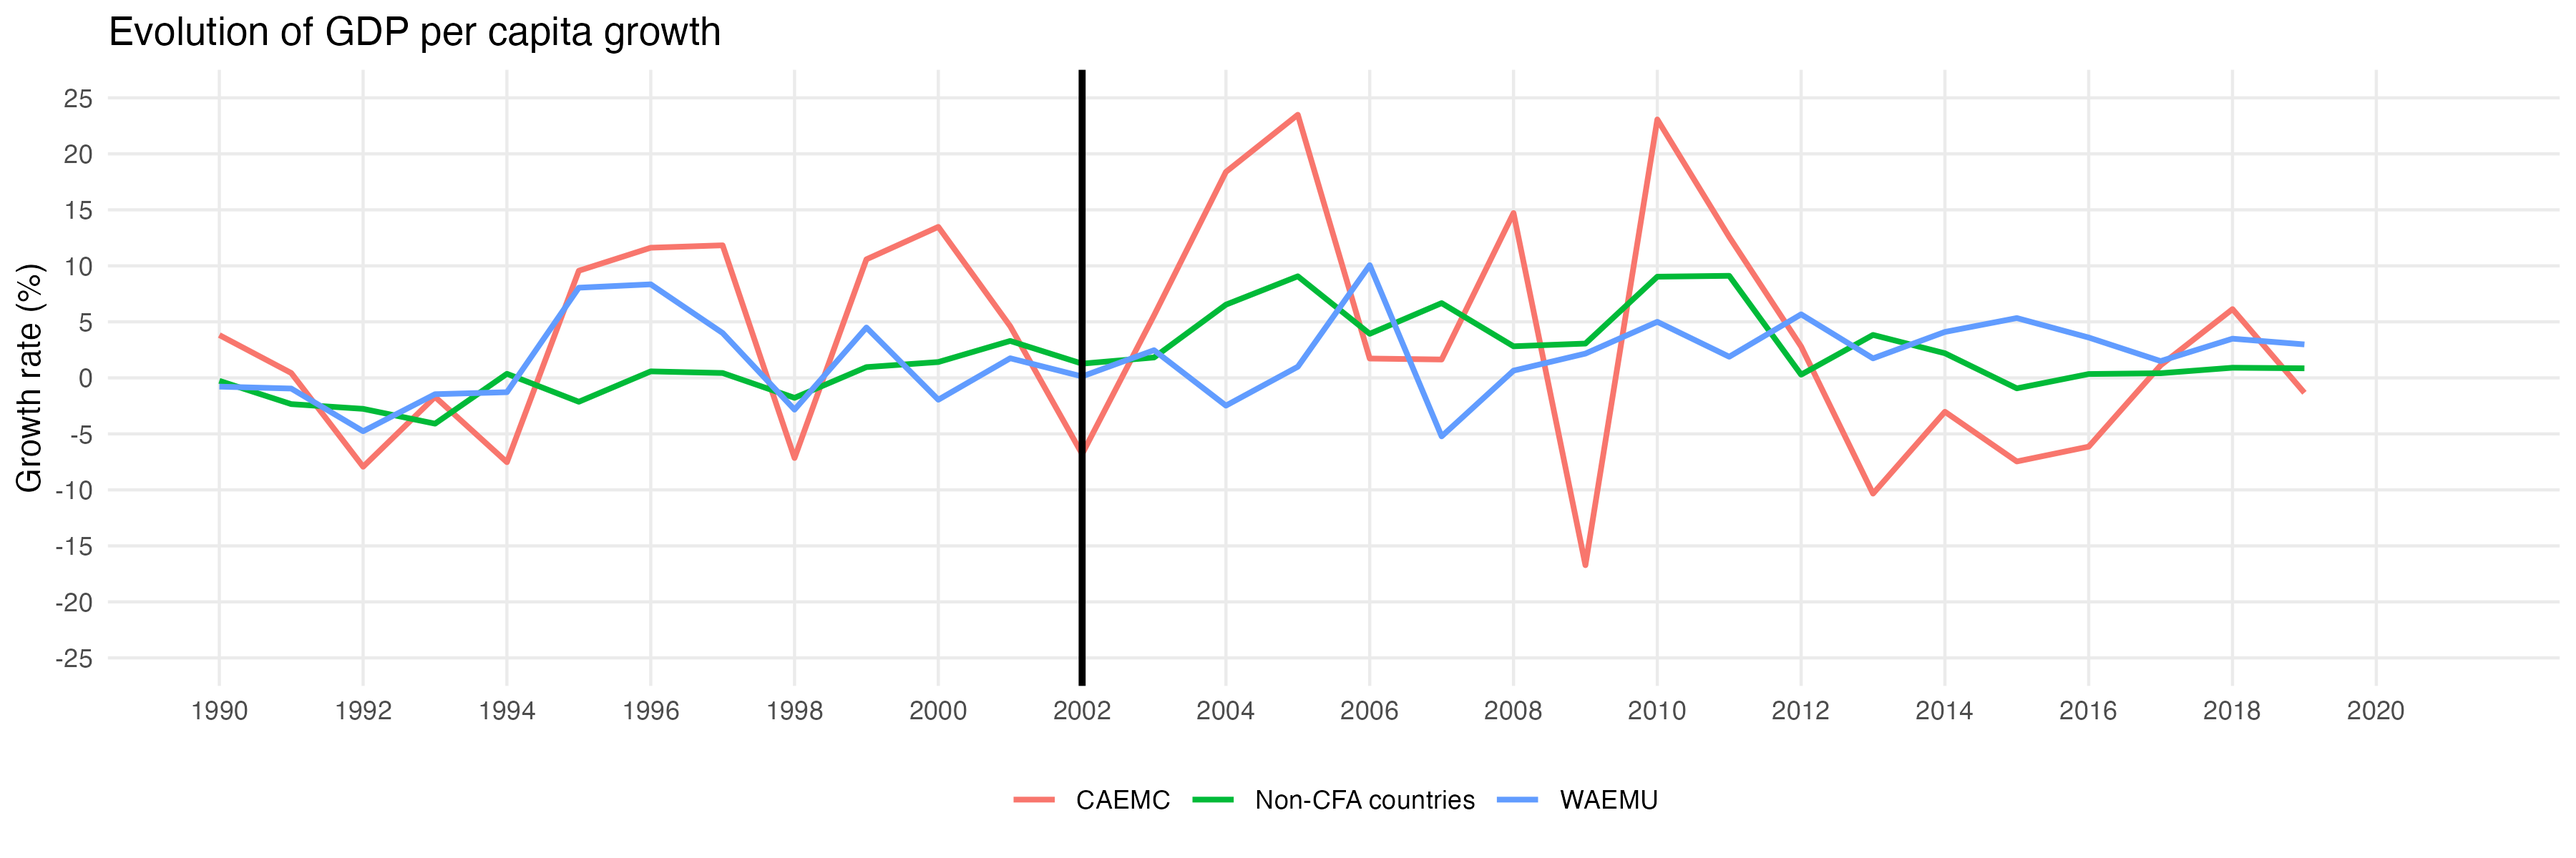
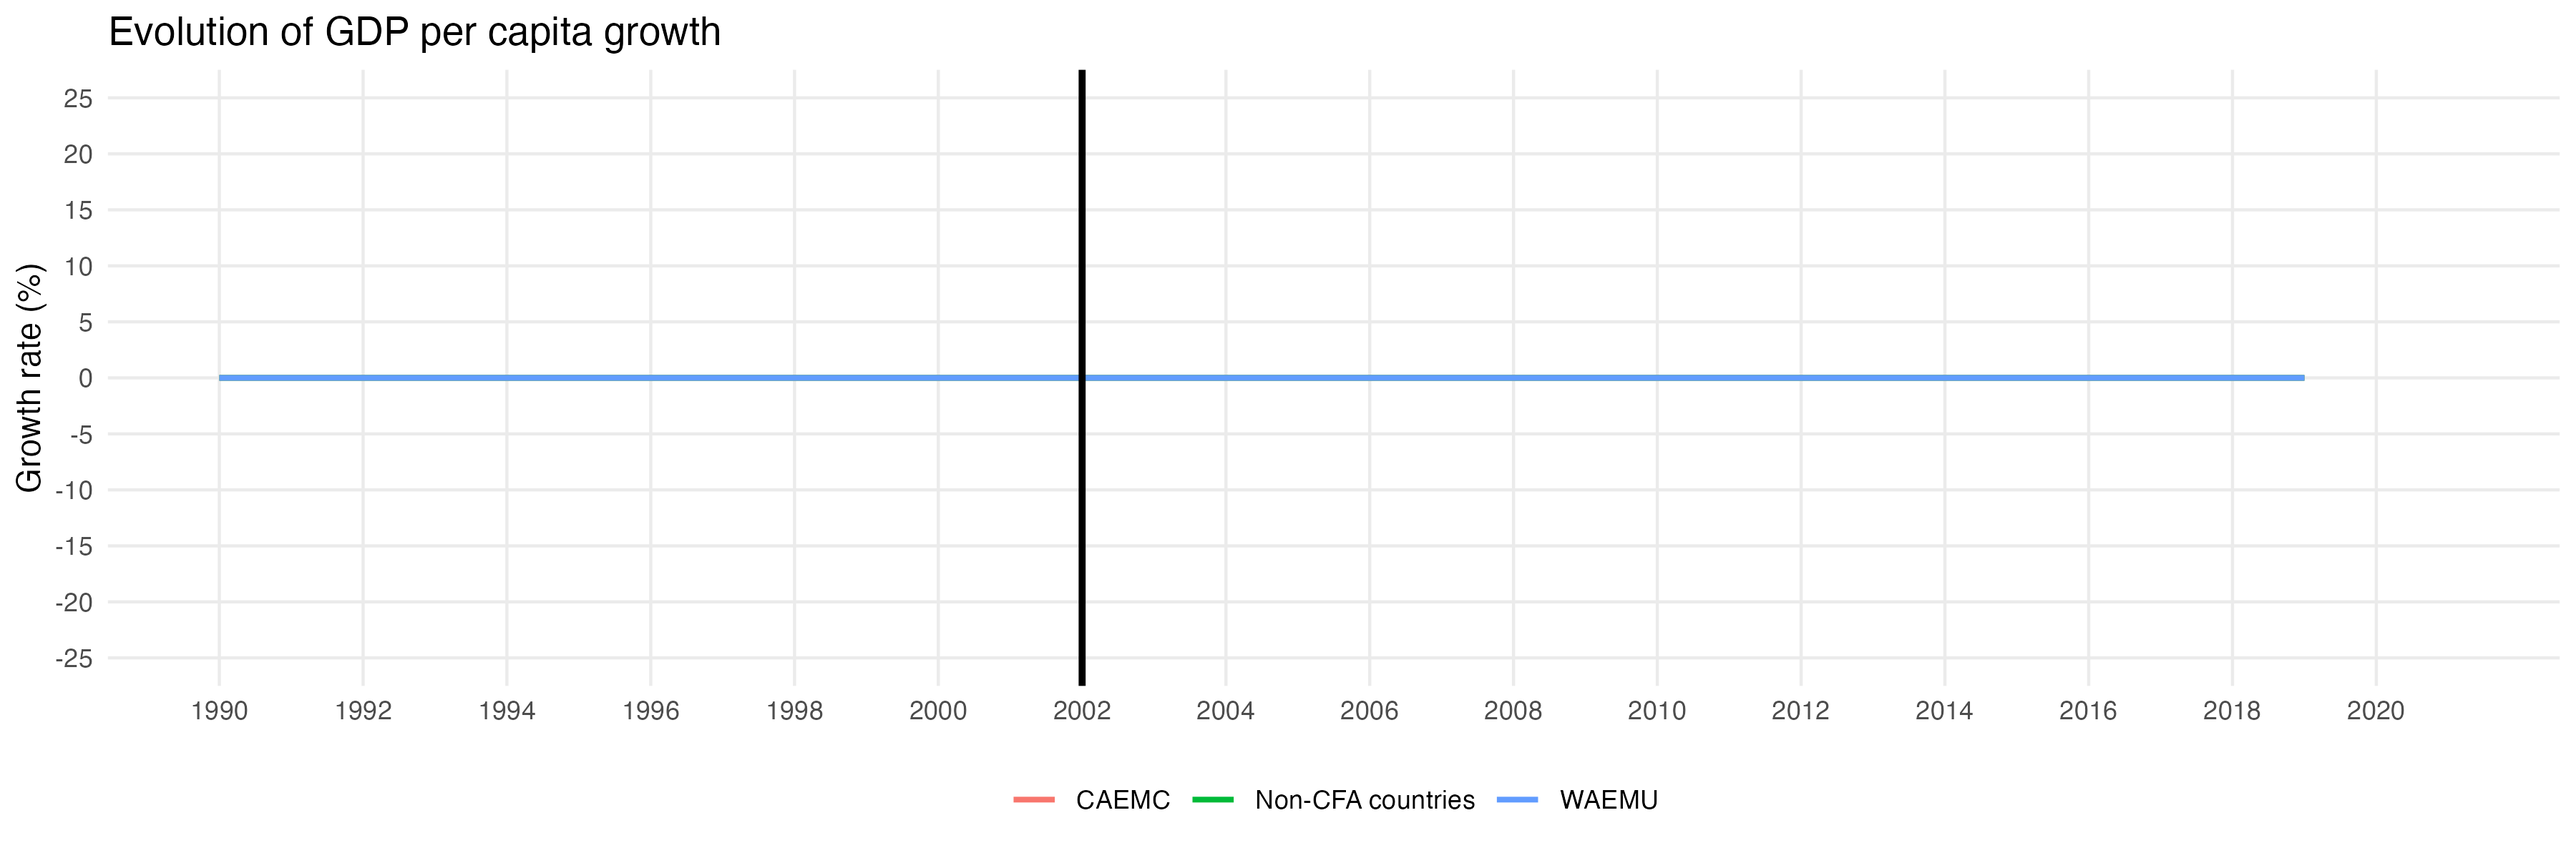
Add comments to data download file

diff --git a/output/tables/appendix4_non_cfa_gdp_growth.tex b/output/tables/appendix4_non_cfa_gdp_growth.tex
@@ -6,28 +6,28 @@
 \toprule
 country & gdp\_pc 1990-2001 & gdp\_pc 2002-2021 & gdp\_pc\_wdi 1990-2001 & gdp\_pc\_wdi 2002-2021\\
 \midrule
-Angola & -1.080 & 7.569 & -1.293 & 1.432\\
-Burundi & -2.298 & 0.394 & -3.034 & 0.049\\
-Congo, Dem. Rep. & -9.217 & 3.809 & -8.169 & 2.108\\
-Ethiopia & -0.422 & 8.390 & 0.003 & 5.781\\
-Gambia, The & 0.116 & -0.795 & 0.305 & 0.157\\
+Angola & 0 & 0 & 0 & 0\\
+Burundi & 0 & 0 & 0 & 0\\
+Congo, Dem. Rep. & 0 & 0 & 0 & 0\\
+Ethiopia & 0 & 0 & 0 & 0\\
+Gambia, The & 0 & 0 & 0 & 0\\
 \addlinespace
-Ghana & 0.871 & 3.227 & 1.746 & 3.462\\
-Guinea & -2.300 & -0.454 & 1.252 & 2.247\\
-Kenya & -0.277 & 3.831 & -0.895 & 1.768\\
-Madagascar & -0.579 & 1.062 & -1.023 & -0.393\\
-Malawi & -1.973 & 2.291 & 1.134 & 1.959\\
+Ghana & 0 & 0 & 0 & 0\\
+Guinea & 0 & 0 & 0 & 0\\
+Kenya & 0 & 0 & 0 & 0\\
+Madagascar & 0 & 0 & 0 & 0\\
+Malawi & 0 & 0 & 0 & 0\\
 \addlinespace
-Nigeria & 2.047 & 10.405 & -0.632 & 2.152\\
-Sao Tome and Principe & 1.790 & 2.839 & 0.060 & 1.953\\
-Sierra Leone & -1.305 & 3.146 & -3.661 & 2.642\\
-Sudan & 1.158 & 3.806 & 3.862 & -0.546\\
-Tanzania & 1.438 & 3.720 & 0.538 & 3.101\\
+Nigeria & 0 & 0 & 0 & 0\\
+Sao Tome and Principe & 0 & 0 & 0 & 0\\
+Sierra Leone & 0 & 0 & 0 & 0\\
+Sudan & 0 & 0 & 0 & 0\\
+Tanzania & 0 & 0 & 0 & 0\\
 \addlinespace
-Uganda & 3.577 & 2.640 & 3.166 & 2.919\\
-Zambia & -0.045 & 5.263 & -0.514 & 2.231\\
-Zimbabwe & -1.315 & 0.359 & 0.346 & -0.771\\
-Average & -0.545 & 3.417 & -0.378 & 1.792\\
+Uganda & 0 & 0 & 0 & 0\\
+Zambia & 0 & 0 & 0 & 0\\
+Zimbabwe & 0 & 0 & 0 & 0\\
+Average & 0 & 0 & 0 & 0\\
 \bottomrule
 \end{tabular}
 \end{table}

diff --git a/output/tables/appendix3_panelA_waemu_gdp_growth.tex b/output/tables/appendix3_panelA_waemu_gdp_growth.tex
@@ -6,17 +6,17 @@
 \toprule
 country & gdp\_pc 1990-2001 & gdp\_pc 2002-2021 & gdp\_pc\_wdi 1990-2001 & gdp\_pc\_wdi 2002-2021\\
 \midrule
-Benin & 2.346 & 3.5210 & 1.4790 & 1.4790\\
-Burkina Faso & 2.128 & 2.1310 & 2.6980 & 2.6500\\
-Côte d'Ivoire & -1.531 & 4.8070 & -1.1260 & 1.4570\\
-Guinea-Bissau & 1.117 & 0.3740 & 0.7170 & 1.1300\\
-Mali & 6.151 & 3.0350 & 2.5530 & 0.6750\\
+Benin & 0 & 0 & 0 & 0\\
+Burkina Faso & 0 & 0 & 0 & 0\\
+Côte d'Ivoire & 0 & 0 & 0 & 0\\
+Guinea-Bissau & 0 & 0 & 0 & 0\\
+Mali & 0 & 0 & 0 & 0\\
 \addlinespace
-Niger & -0.662 & 0.6730 & -1.1750 & 1.2940\\
-Senegal & -0.167 & 0.7800 & 0.7000 & 1.4350\\
-Togo & -0.971 & 4.2710 & -0.1760 & 1.1360\\
-Average for the WAEMU area & 1.051 & 2.4490 & 0.7090 & 1.4070\\
-Average without Guinea-Bissau & 1.042 & 2.7454 & 0.7076 & 1.4466\\
+Niger & 0 & 0 & 0 & 0\\
+Senegal & 0 & 0 & 0 & 0\\
+Togo & 0 & 0 & 0 & 0\\
+Average for the WAEMU area & 0 & 0 & 0 & 0\\
+Average without Guinea-Bissau & 0 & 0 & 0 & 0\\
 \bottomrule
 \end{tabular}
 \end{table}

diff --git a/output/tables/appendix3_panelB_caemc_gdp_growth.tex b/output/tables/appendix3_panelB_caemc_gdp_growth.tex
@@ -6,14 +6,14 @@
 \toprule
 country & gdp\_pc 1990-2001 & gdp\_pc 2002-2021 & gdp\_pc\_wdi 1990-2001 & gdp\_pc\_wdi 2002-2021\\
 \midrule
-Cameroon & -0.394 & 1.778 & -1.273 & 1.066\\
-Central African Republic & -1.317 & 0.249 & -1.278 & -0.080\\
-Chad & -0.920 & 3.472 & -0.203 & 2.316\\
-Republic of Congo & 2.000 & 5.218 & -1.203 & -0.795\\
-Equatorial Guinea & 20.730 & 5.369 & 33.076 & 0.213\\
+Cameroon & 0 & 0 & 0 & 0\\
+Central African Republic & 0 & 0 & 0 & 0\\
+Chad & 0 & 0 & 0 & 0\\
+Republic of Congo & 0 & 0 & 0 & 0\\
+Equatorial Guinea & 0 & 0 & 0 & 0\\
 \addlinespace
-Gabon & 0.710 & 3.720 & -0.812 & -0.728\\
-Average for the CAEMC zone & 3.468 & 3.301 & 4.718 & 0.332\\
+Gabon & 0 & 0 & 0 & 0\\
+Average for the CAEMC zone & 0 & 0 & 0 & 0\\
 \bottomrule
 \end{tabular}
 \end{table}
